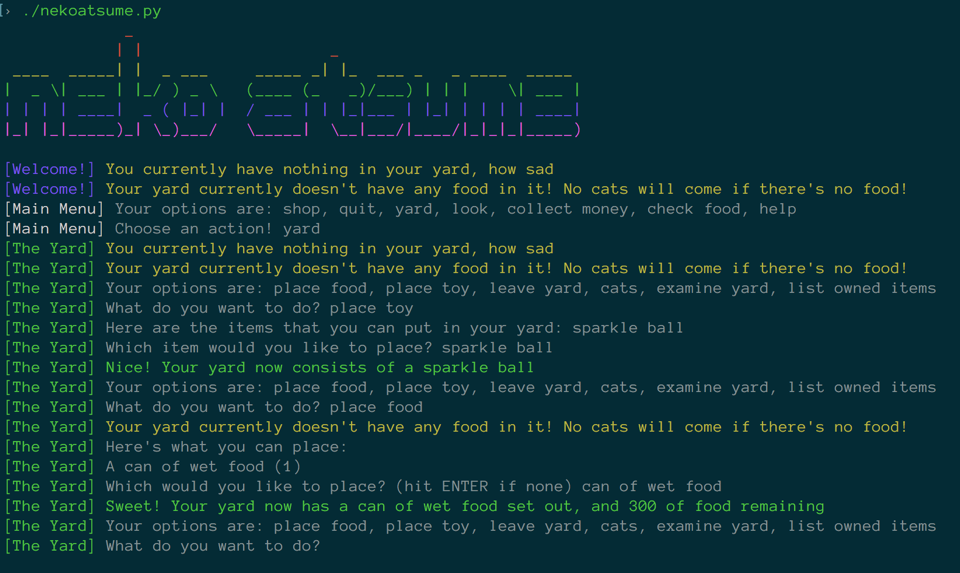
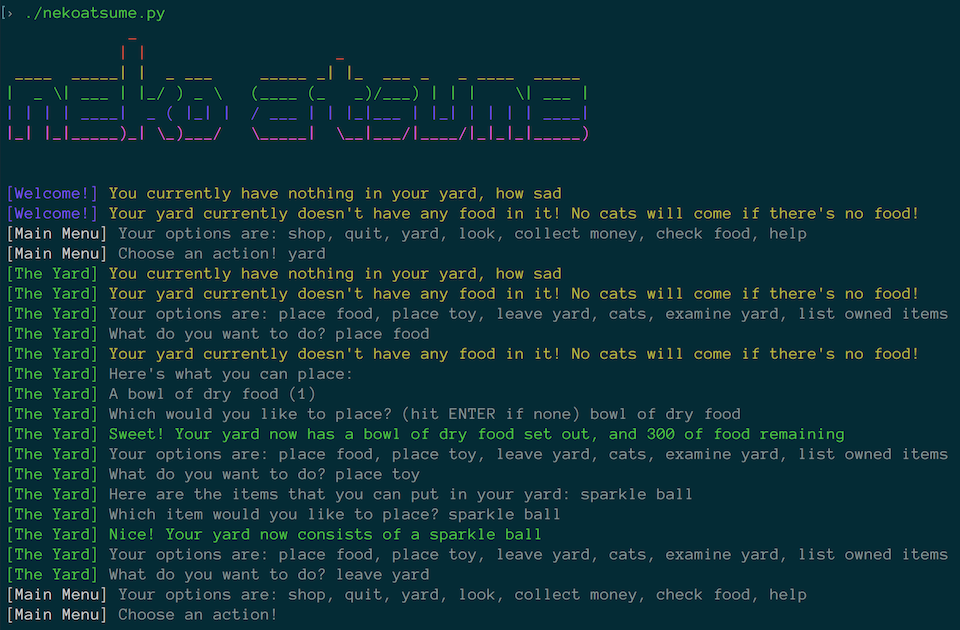
Minor updates.
1. Update screenshot
2. Fix imports as they were broken for Python 3 :(
3. Move welcome banner into separate banner.dat file

Changed region(s): [[0.0, 0.267, 1.0, 1.0], [0.0, 0.0593, 0.625, 0.2373], [0.0, 0.0, 0.1875, 0.0297]]

diff --git a/lib/display.py b/lib/display.py
@@ -5,17 +5,16 @@ These are the functions which show the player what is happening in the game.
 """
 
 from __future__ import print_function
-import buy_menu
-import data_constructor
+from lib import buy_menu
+from lib import data_constructor
 import datetime
 import json
 import os
-import placement
-import printer
+# import sys
+from lib import placement
+from lib import printer
 import time
-import update
-# DEBUG
-# import pdb
+from lib import update
 
 try:
     input = raw_input
@@ -25,8 +24,6 @@ except NameError:
 
 def store_data(data):
     """Purrsist the data."""
-    # DEBUG
-    # pdb.set_trace()
     data_file = os.getcwd() + '/var/data.json'
     with open(data_file, 'w') as f:
         json.dump(data, f)
@@ -47,13 +44,11 @@ def prep_data_on_close(data):
 
 def banner():
     """Welcome banner."""
-    print("             {.RED}_{.ENDC}".format(printer.PColors, printer.PColors))
-    print("            {.RED}| |                    _{.ENDC}".format(printer.PColors, printer.PColors))
-    print(" {.YELLOW}____  _____| |  _ ___     _____ _| |_  ___ _   _ ____  _____{.ENDC}".format(printer.PColors, printer.PColors))
-    print("{.GREEN}|  _ \| ___ | |_/ ) _ \   (____ (_   _)/___) | | |    \| ___ |{.ENDC}".format(printer.PColors, printer.PColors))
-    print("{.BLUE}| | | | ____|  _ ( |_| |  / ___ | | |_|___ | |_| | | | | ____|{.ENDC}".format(printer.PColors, printer.PColors))
-    print("{.PURPLE}|_| |_|_____)_| \_)___/   \_____|  \__|___/|____/|_|_|_|_____){.ENDC}\n".format(printer.PColors, printer.PColors))
-
+    banner_file = os.getcwd() + '/share/banner.dat'
+    with open(banner_file, 'r') as b:
+        for l in b:
+            print(l.format(printer.PColors, printer.PColors), end='')
+        print('\n')
 
 """
 TODO: this should be remade but where we just take the time diff
@@ -156,7 +151,6 @@ def main():
             printer.PColors, printer.PColors)
         printer.prompt(data["prefix"], actions.keys())
         inp = input("{0} Choose an action! ".format(data["prefix"]))
-        # pdb.set_trace()
         if inp in actions:
             actions[inp](data)
             continue

diff --git a/lib/placement.py b/lib/placement.py
@@ -4,7 +4,7 @@ Place items.
 This module handles the placement of food and toys in the yard.
 """
 
-import printer
+from lib import printer
 
 try:
     input = raw_input

diff --git a/lib/buy_menu.py b/lib/buy_menu.py
@@ -4,7 +4,7 @@ Buy some items.
 This module controls the item shop and related transactions.
 """
 
-import printer
+from lib import printer
 DEMARCATION = 6
 
 try:

diff --git a/lib/__init__.py b/lib/__init__.py
@@ -1,1 +1,1 @@
-import display
+"""Game library."""
